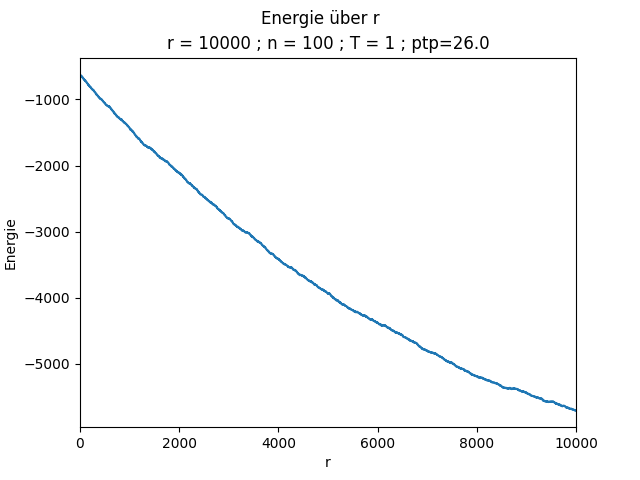
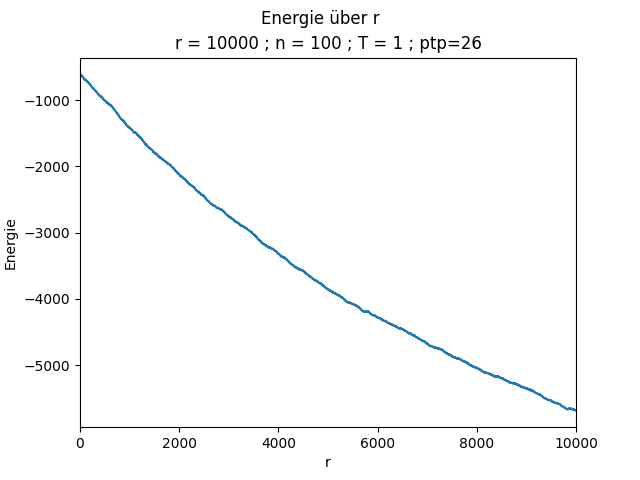
average Graph eingeführt

diff --git a/Projekt/SaveGitter.py b/Projekt/SaveGitter.py
@@ -2,7 +2,7 @@ import numpy as np
 import matplotlib.pyplot as plt
 import matplotlib.colors as c
 
-def plot(my_arr, n):
+def plot(my_arr, n) -> None:
     """Plots an array as bunch of small squares."""
     # Does fancy stuff. (creating subplot)
     fig = plt.figure(figsize=(5,5))
@@ -14,7 +14,7 @@ def plot(my_arr, n):
     # Plots everything
     plt.show()
 
-def saveGridIMG(my_arr, n, string):
+def saveGridIMG(my_arr, n, string) -> None:
     """
     Speichert Array als Bilddatei.
     Funktioniert nur für Gitterdarstellung.
@@ -34,7 +34,7 @@ def saveGridIMG(my_arr, n, string):
     # Speicehrt plot als .png
     fig.savefig(string, dpi=200)
 
-def saveGraphIMG(xAxis, yAxis, r, n, T, filename, ptp=None):
+def saveGraphIMG(yAxis, r, n, T, filename, ptp) -> None:
     """
     Speichert Array als Bilddatei.
     Funktioniert nur für Darstellung von Graphen.
@@ -43,11 +43,11 @@ def saveGraphIMG(xAxis, yAxis, r, n, T, filename, ptp=None):
     # Erzeugung des Graphen
     fig, ax = plt.subplots()
     # xAxis = np.arange(0, r, 1)
-    ax.plot(xAxis, yAxis)
+    ax.plot(yAxis)
 
     # Überschrift und Unterüberschrift
     fig.suptitle("Energie über r")
-    ax.set_title("r = " + str(r) + " ; n = " + str(n) + " ; T = " + str(T) + " ; ptp=" + str(ptp))
+    ax.set_title("r = %(r)s ; n = %(n)s ; T = %(T)s ; ptp=%(ptp)s" % locals())
 
     # Achsenbeschriftung
     ax.set_ylabel("Energie")
@@ -57,9 +57,36 @@ def saveGraphIMG(xAxis, yAxis, r, n, T, filename, ptp=None):
     ax.set_xlim(0, r)
 
     # Speicehrt plot als .png
-    fig.savefig(filename + "_r=" + str(r) + "_n=" + str(n) + "_T=" + str(T) + "_ptp=" + str(int(ptp)))
+    fig.savefig(filename + "_r=%(r)s_n=%(n)s_T=%(T)s_ptp=%(ptp)s" % locals())
 
-def saveFile(my_arr, string):
+def saveMeanGraphIMG(yAxese, yAxisMean, r, n, T, reps, filename) -> None:
+    """
+    Plottet den Durschnitts-Array und dazu die einzelnen Arrays dünn in grau und speichert als Bilddatei.
+    Funktioniert nur für Darstellung von Graphen.
+    """
+
+    # Erzeugung des Graphen
+    fig, ax = plt.subplots()
+    # xAxis = np.arange(0, r, 1)
+    for i in yAxese:
+        ax.plot(i,  color='grey', linewidth='0.3')
+    ax.plot(yAxisMean, linewidth='3')
+
+    # Überschrift und Unterüberschrift
+    fig.suptitle("gemittelte Energie über r")
+    ax.set_title("r = %(r)s ; n = %(n)s ; T = %(T)s ; reps=%(reps)s" % locals())
+
+    # Achsenbeschriftung
+    ax.set_ylabel("Energie")
+    ax.set_xlabel("r")
+
+    # Formatiert plot
+    ax.set_xlim(0, r)
+
+    # Speicehrt plot als .png
+    fig.savefig(filename + "_r=%(r)s_n=%(n)s_T=%(T)s_reps=%(reps)s" % locals())
+
+def saveFile(my_arr, string) -> None:
     """Sepeichert Array als Textdatei."""
     with open(string, 'w') as file:
         file.write(np.array2string(my_arr, threshold=100))

diff --git a/Projekt/MakeGitter.py b/Projekt/MakeGitter.py
@@ -2,7 +2,7 @@ import numpy as np
 import matplotlib.pyplot as plt
 import matplotlib.colors as c
 
-def charge():
+def charge() -> int:
     """Returns randomly -1 or 1."""
     return np.random.choice([-1, 1])
 
@@ -20,72 +20,10 @@ def charge():
 #     return x
 
 
-def getGitterV2(n):
+def getGitterV2(n) -> np.ndarray:
     """Returns an array with the dimension n*n randomly filled with -1 or 1.
     second version. much faster"""
     return np.random.choice([-1, 1], (n, n))
-#
-# def plot(my_arr, n):
-#     """Plots an array as bunch of small squares."""
-#     # Does fancy stuff. (creating subplot)
-#     fig = plt.figure(figsize=(5,5))
-#     ax = fig.add_subplot(111, aspect='equal')
-#
-#     # Displays the array as squares.
-#     mesh = plt.pcolormesh(my_arr)
-#
-#     # Plots everything
-#     plt.show()
-#
-# def saveGridIMG(my_arr, n, string):
-#     """
-#     Speichert Array als Bilddatei.
-#     Funktioniert nur für Gitterdarstellung.
-#     """
-#
-#     # Does fancy stuff. (creating subplot)
-#     fig = plt.figure(figsize=(5,5))
-#     ax = fig.add_subplot(111, aspect='equal')
-#     ax.set_title(string)
-#
-#     # Colormap for specific colors.
-#     cMap = c.ListedColormap(["Black", 'White'])
-#
-#     # Displays the array as squares.
-#     mesh = plt.pcolormesh(my_arr, cmap=cMap)
-#
-#     # Speicehrt plot als .png
-#     fig.savefig(string, dpi=200)
-#
-# def saveGraphIMG(xAxis, yAxis, r, n, T, filename):
-#     """
-#     Speichert Array als Bilddatei.
-#     Funktioniert nur für Darstellung von Graphen.
-#     """
-#
-#     # Erzeugung des Graphen
-#     fig, ax = plt.subplots()
-#     xAxis = np.arange(0, r, 1)
-#     ax.plot(xAxis, yAxis)
-#
-#     # Überschrift und Unterüberschrift
-#     fig.suptitle("Energie über r")
-#     ax.set_title("r = " + str(r) + " ; n = " + str(n) + " ; T = " + str(T))
-#
-#     # Achsenbeschriftung
-#     ax.set_ylabel("Energie")
-#     ax.set_xlabel("r")
-#
-#     # Formatiert plot
-#     ax.set_xlim(0, r)
-#
-#     # Speicehrt plot als .png
-#     fig.savefig(filename + "_r=" + str(r) + "_n=" + str(n) + "_T=" + str(T))
-#
-# def saveFile(my_arr, string):
-#     """Sepeichert Array als Textdatei."""
-#     with open(string, 'w') as file:
-#         file.write(np.array2string(my_arr, threshold=100))
 
 def smooth(y, box_pts):
     box = np.ones(box_pts)/box_pts

diff --git a/Projekt/SwitchSpinOptimized.py b/Projekt/SwitchSpinOptimized.py
@@ -16,11 +16,12 @@ import matplotlib.pyplot as plt
 # beta = J/1.380649e-23*T
 
 
-def switchSpin(conf, n, T, r, distanz=0, akzeptanzrate=True, GraphE=True, GraphMag=False, Abbruchbedingung=(False, None)):
+def switchSpin(conf, n, T, r, distanz=0, akzeptanzrate=True, GraphE=True, GraphMag=False, Abbruchbedingung=(False, None)) -> tuple:
     """
     Wählt einen zufälligen Spin aus, wechselt diesen und überprüft, ob dieser Wechsel beibehalten oder rückgängig gemacht wird.
     Beinhaltet Code zum berechnen der Akzeptanzrate.
 
+    returns Triple (conf_neu, my_graphE, my_akzeptanzVars)
     """
     ptp = None
     # Variabeln für Akzeptanzrate. ALle Codeblöcke, die mit der Akzeptanzrate zu tun haben, werden nur ausgeführt, wenn der Paramter 'akzeptanzrate' 'True' ist. Dieser ist standardmäßig 'False'.
@@ -128,9 +129,10 @@ def switchSpin(conf, n, T, r, distanz=0, akzeptanzrate=True, GraphE=True, GraphM
         xAxisGraphE = np.arange(0, r, 1)
         # print(np.shape(xAxisGraphE))
         # print(np.shape(yAxisGraphE))
-        saveGraphIMG(xAxisGraphE, yAxisGraphE[0:r], r, n, T,  "EGraph", ptp)
-        my_GraphE = np.array([xAxisGraphE, yAxisGraphE[0:r]])
+        # saveGraphIMG(xAxisGraphE, yAxisGraphE[0:r], r, n, T,  "EGraph", ptp if not None else "error")
+        my_GraphE = np.array((xAxisGraphE, yAxisGraphE[0:r]))
 
         # saveGraphIMG(xAxis, np.fft.fft(yAxis), r, n, "EnergieGraphSMooth")
+    infos = [n, T, r, ptp]
 
-    return [conf, my_GraphE if GraphE else None, my_akzeptenzVars if akzeptanzrate  else None]
+    return [conf, my_GraphE if GraphE else None, my_akzeptenzVars if akzeptanzrate else None, infos]

diff --git a/Projekt/main.py b/Projekt/main.py
@@ -8,27 +8,36 @@ import MakeGitter as MG
 import DetermineCharge as DC
 import SwitchSpinOptimized as SwSp
 import SaveGitter as SG
+import Wiederholung
 
 
 n = 100
 T = 1
 r = 10000
+reps = 10
+
+listOfGraphs = Wiederholung.repeat(reps, n, T, r)
+avgGraph = Wiederholung.averageArray(listOfGraphs)
+
+SG.saveMeanGraphIMG(listOfGraphs, avgGraph, r, n, T, reps,  "EGraphGemittelt")
 
 
-gitter = MG.getGitterV2(n)
 
-SG.saveGridIMG(gitter, n, "Projekt/Ergebnis/start_Graph")
+# gitter = MG.getGitterV2(n)
 
-SG.saveFile(gitter, "Projekt/Ergebnis/start_Array")
+# SG.saveGridIMG(gitter, n, "Projekt/Ergebnis/start_Graph")
+# SG.saveFile(gitter, "Projekt/Ergebnis/start_Array")
 
-conf_neu, my_graphE, my_akzeptanzVars = SwSp.switchSpin(gitter, n, T, r, distanz=0, akzeptanzrate=False, GraphE=False, Abbruchbedingung=(True, 100))
+# conf_neu, my_graphE, my_akzeptanzVars, infos = SwSp.switchSpin(gitter, n, T, r, distanz=0, akzeptanzrate=False, GraphE=True, Abbruchbedingung=(True, 100))
 
-print("hsdfbsdifb")
-print(my_graphE)
-print(my_akzeptanzVars)
+# print("hsdfbsdifb")
+# print(conf_neu)
+# print(my_graphE)
+# print(my_akzeptanzVars)
 
-SG.saveGridIMG(conf_neu, n, "Projekt/Ergebnis/end_Graph")
-SG.saveFile(gitter, "Projekt/Ergebnis/end_Array")
+# SG.saveGridIMG(conf_neu, n, "Projekt/Ergebnis/end_Graph")
+# SG.saveGraphIMG(my_graphE[0], my_graphE[1], r, n, T,  "EGraph", int(infos[3]))
+# SG.saveFile(gitter, "Projekt/Ergebnis/end_Array")
 
 # plt.show()
 

diff --git a/Projekt/Wiederholung.py b/Projekt/Wiederholung.py
@@ -1,0 +1,14 @@
+# Bibliotheken
+import numpy as np
+import itertools
+
+# Funktionen
+from SwitchSpinOptimized import switchSpin as swSp
+from  MakeGitter import getGitterV2 as getGitter
+
+def repeat(reps, n, T, r, distanz=0, akzeptanzrate=False, GraphE=True, GraphMag=False, Abbruchbedingung=(False, None)) -> list:
+    return [swSp(getGitter(n), n, T, r, distanz=0, akzeptanzrate=False, GraphE=True, GraphMag=False, Abbruchbedingung=(False, None))[1][1] for x in itertools.repeat(None, reps)]
+
+
+def averageArray(my_arrays) -> np.ndarray:
+    return np.mean((my_arrays), axis=0)
